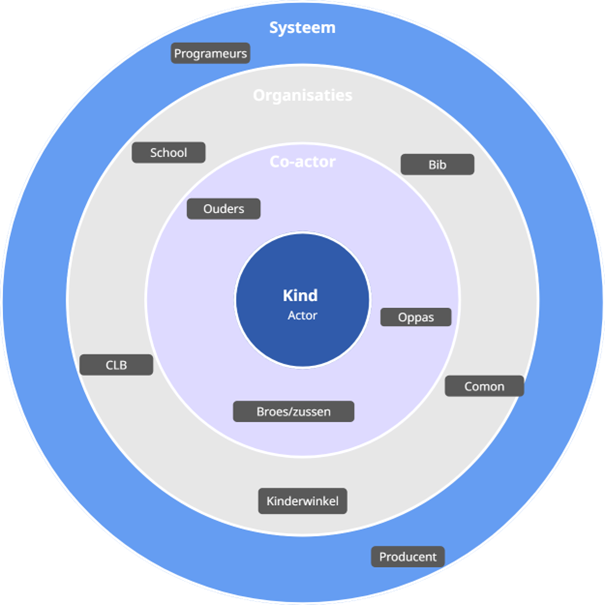
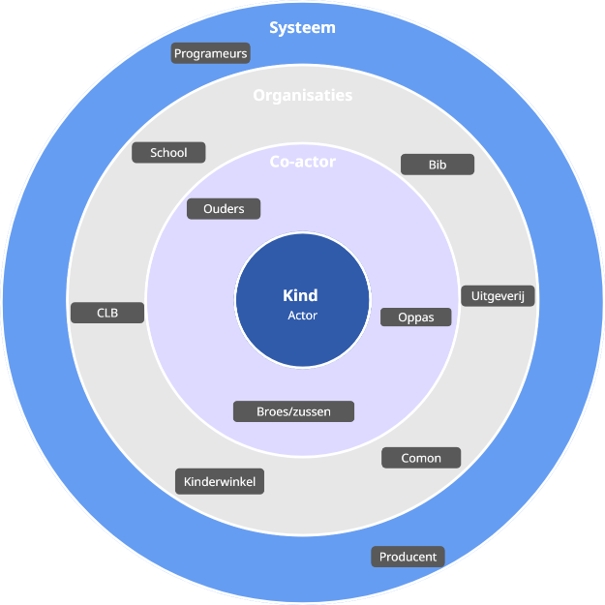
Develop 3changes

diff --git a/docs/develop3.md b/docs/develop3.md
@@ -3,14 +3,14 @@
 ## Inleiding
 In deze fase werden twee domeinen grondig onderzocht.
 Enerzijds werd de volledige levenscyclus van het product geanalyseerd. Hiervoor werden brainstormsessies georganiseerd en verschillende schema’s opgesteld om inzicht te krijgen in de interactie tussen gebruiker en product gedurende de volledige gebruiksperiode. Daarbij werd onder andere gekeken naar:
-* Lifespan
+* Omkadering
 * Customer journey
-Daarnaast ook het onderzoeken van het materiaalgebruik en de vormgeving van de slimme kapstok. Hiervoor werd eerst een CMF-analyse uitgevoerd van bestaande producten en merken. Vervolgens werden gebruikerstesten uitgevoerd om inzicht te krijgen in de wensen en ervaringen van de doelgroep. Tijdens deze testen werden tevens verschillende varianten van een deel van het programma geëvalueerd 
-* CMF-onderzoek
-* User tests met kinderen (N=6) en ouders (N=4)
+
+Daarnaast werd ook het materiaalgebruik en de vormgeving van de slimme kapstok onderzocht. Hiervoor werd eerst een CMF-analyse uitgevoerd van bestaande producten en merken die passen in de leefwereld van de doelgroep. Vervolgens werden gebruikerstesten uitgevoerd om de CMF aannames te valdideren bij de users (N=10)*. Tijdens deze testen werden tevens verschillende varianten van de kapstok interface geëvalueerd 
 
 
-## Lifespan
+
+## Omkadering
 
 ### Stakeholder analyse
 <p align="center">
@@ -22,23 +22,26 @@ Om de gewenste gebruikerservaring in kaart te brengen, werd een lijst opgesteld 
 [📃Emotieonderzoek protocol](../docs/Emotieonderzoek_protocol.pdf)
 [📃Emotieonderzoek rapport](../docs/Emotieonderzoek_rapport.pdf)
 
-**Resultaten:** 
-</p>
-Ontwerpomplementaties voor emoties van kind:
-* Duidelijk eindteken naar het kind indien de taak afgewerkt is. -> voldoening en trots
-* Zorgen dat kind de handelingen volledig zelfstandig kan uitvoeren. -> autonomie
-* Stem de moeilijkheidsgraad af op het niveau van het kind: uitdagend genoeg om te motiveren, maar niet zo moeilijk dat het frustrerend wordt. -> zelfvertrouwen
-* Voorzie een duidelijke, visuele structuur van de stappen en de inhoud van de zak. -> rust
-* Laat het kind werken op eigen tempo, zonder tijdsdruk. -> rust
-* Zorg dat het systeem voorspelbaar is. -> rust 
-</p>
-Ontwerpimplementaties voor emoties van ouder:
-* Zorgen dat kind de handelingen volledig zelfstandig kan uitvoeren. -> rust
-* Zorg voor een duidelijk en betrouwbaar systeem dat het kind stap voor stap begeleidt, zodat de ouder erop kan vertrouwen dat alles correct gebeurt zonder constante controle. -> vertrouwen
-* Geef een korte, positieve bevestiging wanneer het kind de taak zelfstandig afrondt. -> trots
-* Voorzie vaste momenten zoals een wekelijkse planning en reflectie, waarin de ouder kan bijsturen waar nodig. -> controle
-* Maak het mogelijk om de moeilijkheidsgraad aan te passen zodat de ondersteuning kan afnemen naarmate het kind zelfstandiger wordt. -> controle
+**Ontwerp implicaties voor het kind:** 
 
+| Actie | Emotie |
+|--------|--------|
+| Duidelijk eindteken naar het kind wanneer de taak afgewerkt is. | voldoening en trots |
+| Zorgen dat kind de handelingen volledig zelfstandig kan uitvoeren. | autonomie |
+| Stem de moeilijkheidsgraad af op het niveau van het kind: uitdagend genoeg om te motiveren, maar niet zo moeilijk dat het frustrerend wordt. | zelfvertrouwen |
+| Voorzie een duidelijke, visuele structuur van de stappen en de inhoud van de zak. | rust |
+| Laat het kind werken op eigen tempo, zonder tijdsdruk. | rust |
+| Zorg dat het systeem voorspelbaar is. | rust |
+
+**Ontwerp implicaties voor de ouder:** 
+
+| Actie | Emotie |
+|--------|--------|
+| Zorgen dat kind de handelingen volledig zelfstandig kan uitvoeren. | rust |
+| Zorg voor een duidelijk en betrouwbaar systeem dat het kind stap voor stap begeleidt, zodat de ouder erop kan vertrouwen dat alles correct gebeurt zonder constante controle. | vertrouwen |
+| Geef een korte, positieve bevestiging wanneer het kind de taak zelfstandig afrondt. | trots |
+| Voorzie vaste momenten zoals een wekelijkse planning en reflectie, waarin de ouder kan bijsturen waar nodig. | controle |
+| Maak het mogelijk om de moeilijkheidsgraad aan te passen zodat de ondersteuning kan afnemen naarmate het kind zelfstandiger wordt. | controle |
 ### Tweede leven storyboard
 Er werd onderzocht wat er met het product kan gebeuren wanneer de kinderen het ontgroeid zijn. Hiervoor werd een brainstormsessie georganiseerd waarin verschillende mogelijkheden voor een tweede leven van het product werden verkend. Vervolgens werden met behulp van AI meerdere storyboards uitgewerkt om deze scenario’s te visualiseren en te evalueren.
 [📃Tweede leven storyboards](../docs/tweede%20leven.pdf)
@@ -92,14 +95,14 @@ Er werd een moodboard ontwikkeld om de visuele richting van het ontwerp te verke
 Gebruikerstesten werden uitgevoerd bij drie gezinnen thuis. De test had drie grote delen:
 •	Materiaal van handvaten bepalen
 •	Uitzicht van de kapstok bepalen
-•	Deel van programma zak maken 
+•	Digitale interactie tijdens het maken van de zak valideren
 
 [📃Protocol CMF UX](../reports%20and%20protocols/Protocol_CMF_UX.pdf)
 [📃Rapport CMF UX](../reports%20and%20protocols/Rapport_CMF_UX.pdf) 
 
 
 ### Materiaal van handvaten bepalen
-Testpersonen werden gevraagd verschillende materialen te voelen en te rangschikken van minst naar meest geschikt, waarna zij hun keuzes toelichtten. Bij de kinderen werd aanvullend een blinde test uitgevoerd om visuele beïnvloeding te vermijden, in combinatie met de think-aloud methode.
+Testpersonen werden gevraagd verschillende materialen te voelen en te rangschikken van minst naar meest geschikt, waarna zij hun keuzes toelichtten. Bij de kinderen werd aanvullend een blinde test uitgevoerd om visuele beïnvloeding te vermijden, in combinatie met de think-aloud protocol.
 <p align="left">
   <img src="../img/Handvat%20materialen.png" width="100%">
 </p>
@@ -131,7 +134,7 @@ Testpersonen beoordeelden verschillende renders van productuitvoeringen en rangs
 * Afgerond 
 * Personaliseerbaar mag
 
-### Deel van programma zak maken
+### Kapstok interface: zak maken
 Er werden drie verschillende ingeefmethodes getest. Na elke methode vulden de kinderen een variatie op de SAM-vragenlijst in om hun beleving te beoordelen.
  <p align="left">
    <img src="/img/Tik_App.gif" width="33%">
@@ -148,12 +151,12 @@ Er werden drie verschillende ingeefmethodes getest. Na elke methode vulden de ki
 | Opmerking | Kinderen waren grote fan van het idee om willekeurig een andere versie te hebben op de kapstok. Deze variabiliteit is ook een extra motivator. |  |  |
 
 ## Finale vormgeving
-De finale vormgeving combineert een subtiele integratie in het interieur met een aantrekkelijk en veilig ontwerp voor de doelgroep: kinderen vanaf 4 jaar. Dit werd gerealiseerd door verschillende ontwerpkeuzes:
+De finale vormgeving combineert een subtiele integratie in het interieur met een aantrekkelijk en veilig ontwerp voor de doelgroep: kinderen vanaf 4 jaar. Dit werd gerealiseerd door volgende ontwerpkeuzes:
 
 * Een schokbestendige siliconen rand rondom het product, die bescherming biedt bij stoten en vallen en tegelijkertijd een zachte, kindvriendelijke uitstraling creëert.
 * Een personaliseerbaar frontpaneel met verwisselbare thema's, zodat het product kan worden aangepast aan de voorkeuren van de gebruiker.
 * Een eenvoudige ronde basisvorm, wat de veiligheid verhoogt en zorgt voor een rustige, vriendelijke uitstraling binnen het interieur.
-* Een geïntegreerde lichtkrans met instelbare kleuren maakt het product aantrekkelijker en speelser voor kinderen, terwijl het ook voor sfeervolle verlichting zorgt.
+* Een geïntegreerde lichtring met instelbare kleuren maakt het product aantrekkelijker en speelser voor kinderen, terwijl het ook voor sfeervolle verlichting zorgt. Bovendien geeft fungeert het als extra signifier dat een actie met de kapstok dient te gebeuren.
 * Het gebruik van lichte kleuren en houtaccenten draagt bij aan een warme, huiselijke uitstraling die aansluit bij moderne interieurs.
 
 Daarnaast ondersteunt de vormgeving ook de functionaliteiten van het product:
@@ -163,6 +166,7 @@ Daarnaast ondersteunt de vormgeving ook de functionaliteiten van het product:
 * Geïntegreerde handvaten aan beide zijden maken het product gemakkelijk draagbaar voor zowel kinderen als ouders.
 * Een vast, houten haak zorgt voor voldoende draagkracht voor zware zakken.
 * Het losneembare karakter voorkomt hinder (bv. haak) bij interactie met de display.
+* Een magneet op het raakvlak tussen de kapstok en het scherm geven auditieve feedback wanneer het scherm juist aan de kapstok bevestigd is.
 
 Deze ontwerpkeuzes zorgen ervoor dat het product niet alleen functioneel en veilig is, maar ook esthetisch aansluit bij een huiselijke omgeving.
 
